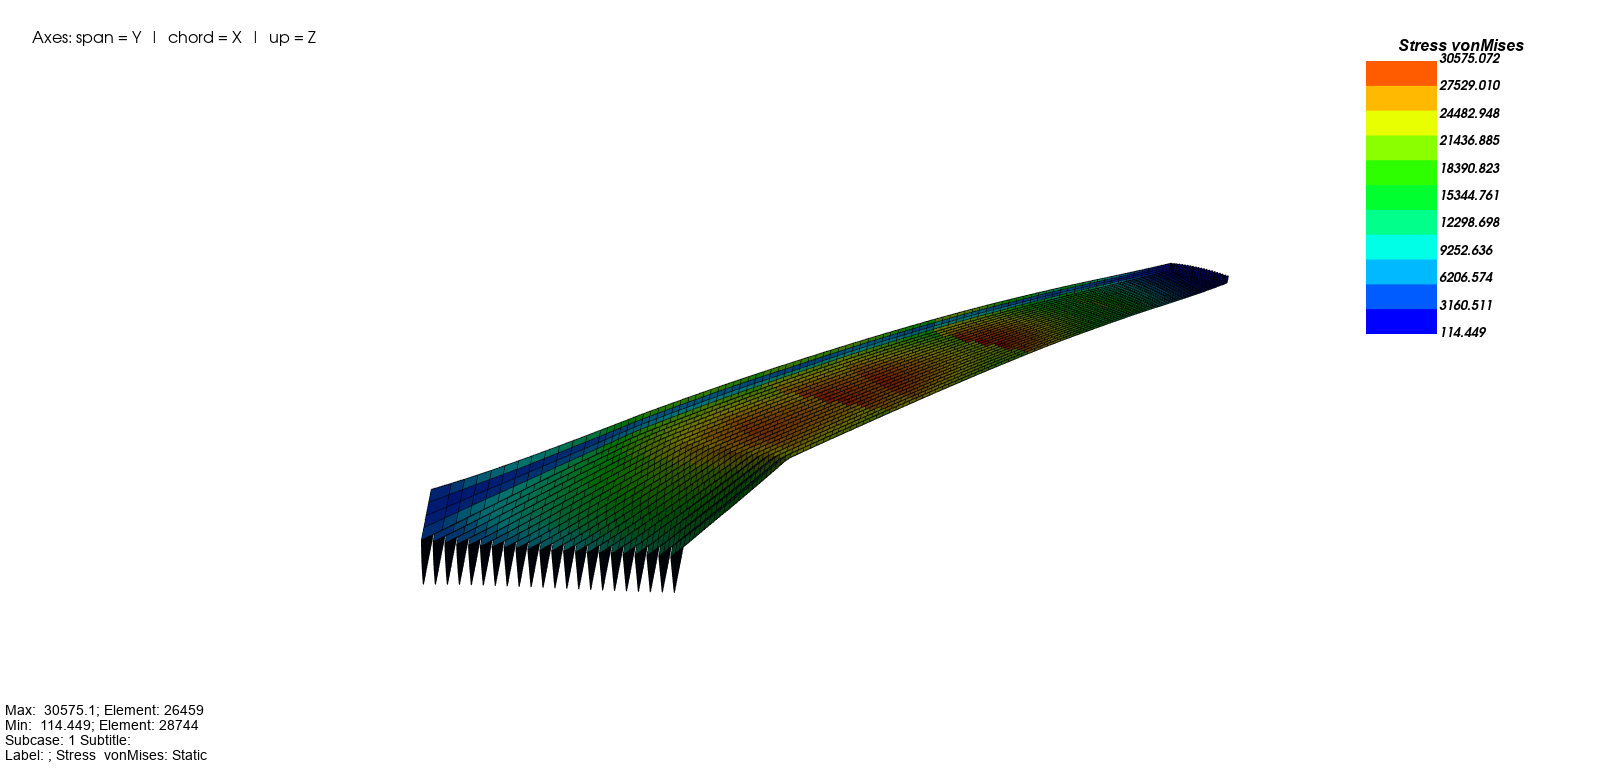
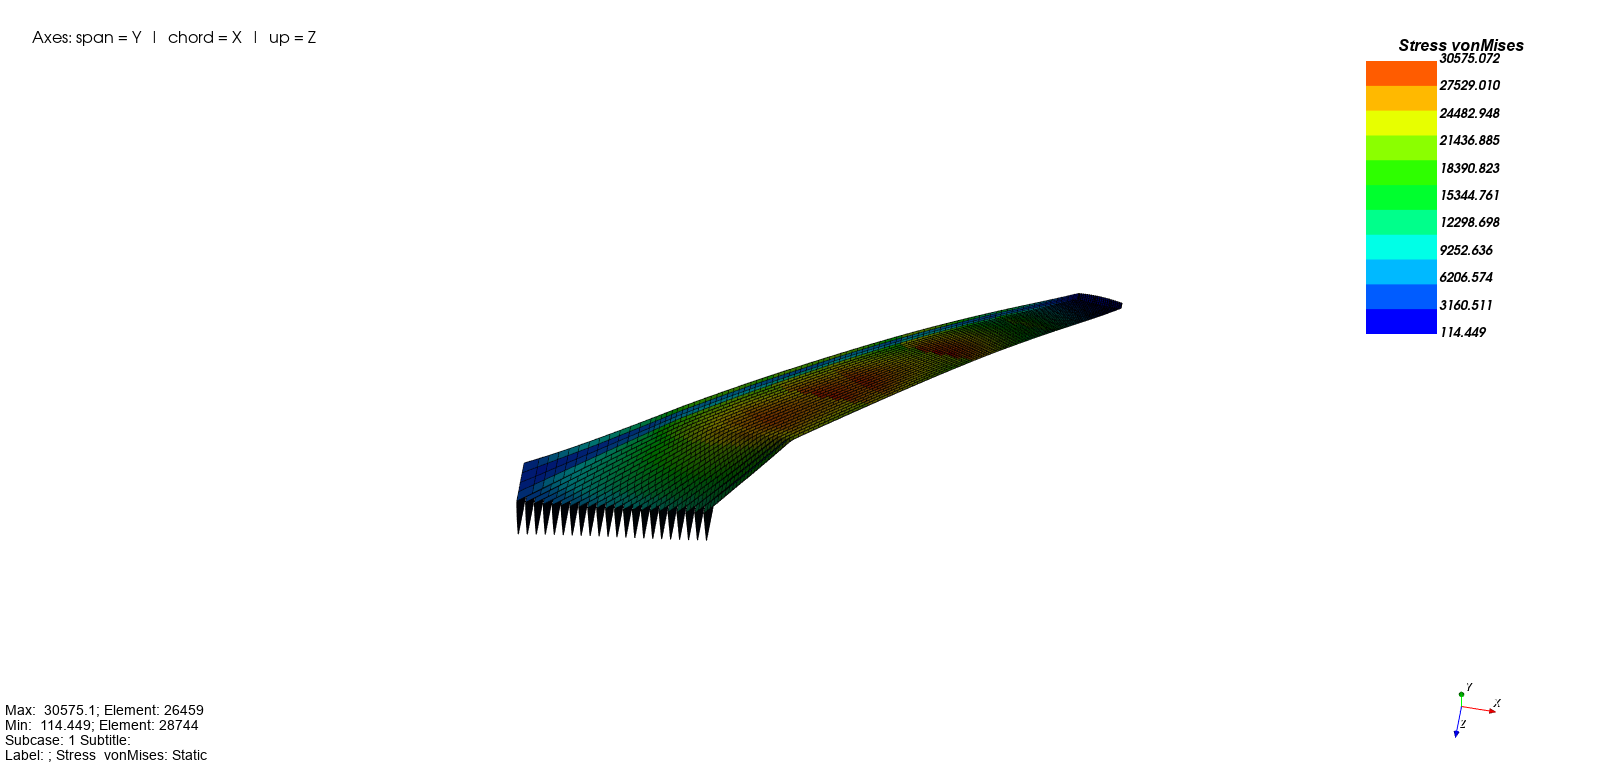
Show a real 3D axis triad on every render instead of a text-only caption (#35)
The previous fix (PR #34) tried to show pyNastranGUI's built-in corner
orientation-marker widget, concluded it wasn't capturable by the
screenshot pipeline, and fell back to a flat vtkTextActor caption
instead. That conclusion was wrong: reading pyNastranGUI's own
tool_actions.py shows on_take_screenshot's _screenshot_setup
unconditionally hides the widget right before every capture (and
restores it after), regardless of what a caller sets beforehand -- it's
not a rendering limitation, just pyNastran's own screenshot helper always
hiding it. Confirmed by bypassing self.on_take_screenshot and driving
vtkRenderLargeImage(self.rend)/vtkPNGWriter directly: the real,
labeled, colored X/Y/Z triad shows up fine.

_build_postscript now enables the triad and repositions/shrinks its
viewport into whichever corner the legend isn't using (bottom-right by
default, top-right when a wide fan pushes the legend to its own
bottom-right fallback), takes the screenshot manually instead of via
on_take_screenshot, and keeps the existing text caption alongside it --
the triad shows genuine X/Y/Z geometry, the caption is still needed to
say what those axes mean for this wing (span/chord/up, root side). Also
gave the caption a translucent background (vtkTextProperty's own
support) after a real render showed the wing's own root corner reaching
the top edge and cutting through the caption text in that camera view.

Regenerated all 10 blog render assets against the real NASA CRM wingbox
[…]

Changed region(s): [[0.2491, 0.3438, 0.7783, 0.7812], [0.9029, 0.9062, 0.934, 0.9375]]

diff --git a/scripts/mcp_server.py b/scripts/mcp_server.py
@@ -1451,17 +1451,22 @@ def _build_postscript(
     selects a von Mises stress result as the active fringe, takes a
     screenshot, and exits.
 
-    magnify=1 is passed to on_take_screenshot explicitly: pyNastranGUI's
-    default (magnify=5, i.e. vtkRenderLargeImage-based tiling) renders the
-    3D geometry at 5x resolution but NOT the 2D overlay actors (legend,
+    magnify=1 matches pyNastranGUI's own screenshot behavior: its default
+    (magnify=5, i.e. vtkRenderLargeImage-based tiling) renders the 3D
+    geometry at 5x resolution but NOT the 2D overlay actors (legend,
     orientation axes) at the same scale, making them look disproportionately
     huge relative to the model in the final image -- confirmed by comparing
     screenshots with and without an explicit magnify during development.
+    The screenshot itself is captured manually (see screenshot_block below)
+    rather than via self.on_take_screenshot -- that method forces magnify=1
+    through the same vtkRenderLargeImage(self.rend)/vtkPNGWriter path used
+    here, so nothing about the image itself changes.
 
     The background is set to flat white (pyNastranGUI's own
     set_background_color_to_white, normally used for GIF export) instead of
     its default dark gradient -- reads better in a blog post. The corner
-    orientation-axes triad is always hidden and the scalar-bar legend is
+    orientation-axes triad is shown (see axes_block below) and repositioned
+    into whichever corner the legend isn't using; the scalar-bar legend is
     always shrunk to a fixed, modest font size (rather than pyNastranGUI's
     default, which auto-scales the legend text to fill its bounding box --
     on an 11-label bar that makes 5-digit stress values render enormous, as
@@ -1525,23 +1530,45 @@ def _build_postscript(
     # create_coordinate_system) -- NOT the small screen-corner orientation
     # widget set_corner_axis_visiblity controls. It sits far from the
     # model's own geometry (the origin is rarely inside the model's bounding
-    # box), so it must be hidden BEFORE any ResetCamera() call, not after --
-    # confirmed by testing: hiding it afterward still let its off-to-the-side
-    # bounds skew the auto-fit, pushing the actual model to one edge of the
-    # frame instead of filling it. Two other approaches to show *some* axis
-    # indicator were tried and rejected: (1) leaving the corner triad widget
-    # itself visible (set_corner_axis_visiblity(True)) renders nothing in
-    # the final image -- confirmed by a real render with it enabled -- since
-    # on_take_screenshot's vtkRenderLargeImage captures self.rend directly,
-    # not the interactor-attached vtkOrientationMarkerWidget's own overlay
-    # renderer; (2) re-showing "Global XYZ" itself (even repositioned near
-    # the model, after ResetCamera) reintroduces the exact framing bug this
-    # code exists to avoid -- confirmed by a real render where doing so
-    # shrank the model to a small corner of the frame despite an unchanged
-    # zoom call. Both stay hidden; orientation_caption below is the actual
-    # fix (see _build_postscript's caption_block).
-    axes_block = """\
-self.set_corner_axis_visiblity(False)
+    # box), so it must stay hidden and BEFORE any ResetCamera() call, not
+    # after -- confirmed by testing: hiding it afterward still let its
+    # off-to-the-side bounds skew the auto-fit, pushing the actual model to
+    # one edge of the frame instead of filling it; showing it at all (even
+    # repositioned near the model, after ResetCamera) reintroduces the same
+    # bug, confirmed by a real render where doing so shrank the model to a
+    # small corner of the frame despite an unchanged zoom call.
+    #
+    # The small screen-corner triad (self.gui.corner_axis, a real
+    # vtkOrientationMarkerWidget/vtkAxesActor -- a genuine 3D axis system,
+    # not a 2D drawing of one) is a completely different object and does NOT
+    # have that framing problem: it renders into its own tiny corner
+    # viewport, independent of the main renderer's bounds. It was previously
+    # believed to be un-capturable -- a real render with
+    # set_corner_axis_visiblity(True) plus the normal self.on_take_screenshot
+    # call showed nothing in any corner. Reading pyNastran's own
+    # tool_actions.py explains why: on_take_screenshot's _screenshot_setup
+    # unconditionally does `axes_actor.SetVisibility(False)` right before
+    # capturing (then _screenshot_teardown sets it back True after) --
+    # regardless of what this postscript set beforehand. It's not that the
+    # capture mechanism can't see the widget; pyNastran's own code always
+    # hides it for screenshots. Confirmed by bypassing self.on_take_screenshot
+    # and driving the same vtkRenderLargeImage(self.rend)/vtkPNGWriter path
+    # by hand (see screenshot_block below): the corner triad shows up fine.
+    # It's repositioned into whichever corner the legend isn't using (see
+    # axis_viewport below) since the default bottom-left placement collides
+    # with pyNastranGUI's own Max/Min corner text.
+    if not want_stress_fringe or legend_y >= 0.3:
+        # No legend, or legend in its top-right placement -> bottom-right
+        # is free (bottom-left is reserved for pyNastran's Max/Min text).
+        axis_viewport = (0.83, 0.0, 0.99, 0.16)
+    else:
+        # Legend dropped to its bottom-right placement -> top-right is free
+        # instead (top-left is reserved for orientation_caption below).
+        axis_viewport = (0.83, 0.84, 0.99, 1.0)
+
+    axes_block = f"""\
+self.set_corner_axis_visiblity(True)
+self.gui.corner_axis.SetViewport({axis_viewport[0]!r}, {axis_viewport[1]!r}, {axis_viewport[2]!r}, {axis_viewport[3]!r})
 if 'Global XYZ' in self.geometry_actors:
     self.geometry_actors['Global XYZ'].VisibilityOff()
 """
@@ -1645,16 +1672,23 @@ with open({fringe_flag_repr}, "w") as _f:
     _f.write("1" if _fringe_set else "0")
 """
 
-    # Text, not a 3D widget or actor -- see axes_block's comment for why the
-    # two actor/widget-based approaches that were tried didn't work. A plain
-    # vtkTextActor is a 2D screen-space overlay in the same renderer
-    # (self.rend) real corner-text/legend actors already use successfully,
-    # so it shows up in on_take_screenshot's capture with no framing side
-    # effects (confirmed: same output size/framing with and without it).
+    # A plain text label, separate from the real 3D triad in axes_block
+    # above: the triad shows genuine X/Y/Z geometry but has no idea those
+    # letters mean "span"/"chord"/"up" for this particular wing, or which
+    # end is root -- that mapping is exactly what this caption spells out.
     # Top-left, since every render style this module produces (fixed
     # presets and both custom-camera modes) leaves it empty -- content runs
     # diagonally from lower-left to upper-right, the corner Max/Min block
-    # already owns bottom-left, and the legend owns top-right.
+    # already owns bottom-left, and the legend/triad own the right side.
+    # "Empty" is only true on average, though -- a real render against this
+    # case study's own root-at-left governing-element view showed the root
+    # end's own silhouette reaching all the way to the top edge, overlapping
+    # the caption text. Unlike the legend (which has a free opposite corner
+    # to fall back to via _legend_corner_y), the caption has nowhere else to
+    # go -- every other corner is already claimed. A translucent white
+    # background behind the text (vtkTextProperty's own background support)
+    # keeps it legible regardless of what geometry ends up behind it,
+    # without needing to predict/avoid the model's silhouette per camera.
     caption_block = ""
     if orientation_caption:
         caption_block = f"""
@@ -1663,9 +1697,29 @@ _orient_txt = _vtk_orient.vtkTextActor()
 _orient_txt.SetInput({orientation_caption!r})
 _orient_txt.GetTextProperty().SetFontSize(16)
 _orient_txt.GetTextProperty().SetColor(0.0, 0.0, 0.0)
+_orient_txt.GetTextProperty().SetBackgroundColor(1.0, 1.0, 1.0)
+_orient_txt.GetTextProperty().SetBackgroundOpacity(0.75)
 _orient_txt.GetPositionCoordinate().SetCoordinateSystemToNormalizedViewport()
 _orient_txt.GetPositionCoordinate().SetValue(0.02, 0.94)
 self.rend.AddActor2D(_orient_txt)
+"""
+
+    # Not self.on_take_screenshot -- see axes_block's comment: its
+    # _screenshot_setup/_screenshot_teardown unconditionally hide the corner
+    # axis triad for the duration of the capture, which would silently
+    # undo axes_block above regardless of ordering. This replicates its
+    # magnify=1 path by hand (vtkRenderLargeImage(self.rend) -> vtkPNGWriter,
+    # the same objects on_take_screenshot itself uses) minus that hide step.
+    screenshot_block = f"""\
+import vtk as _vtk_shot
+self.rend.GetRenderWindow().Render()
+_render_large = _vtk_shot.vtkRenderLargeImage()
+_render_large.SetInput(self.rend)
+_render_large.SetMagnification(1)
+_writer = _vtk_shot.vtkPNGWriter()
+_writer.SetInputConnection(_render_large.GetOutputPort())
+_writer.SetFileName({output_png_repr})
+_writer.Write()
 """
 
     return f"""\
@@ -1676,7 +1730,7 @@ self.zoom({zoom})
 {fringe_block}
 {legend_block}
 {caption_block}
-self.on_take_screenshot({output_png_repr}, magnify=1, show_msg=False)
+{screenshot_block}
 
 import sys
 sys.exit(0)

diff --git a/docs/_posts/2026-08-08-ai-driven-fea-nasa-crm-wingbox.md b/docs/_posts/2026-08-08-ai-driven-fea-nasa-crm-wingbox.md
@@ -129,20 +129,21 @@ were cross-checked directly against NASA's own
 
 MYSTRAN solves the patched "GVW" subcase cleanly.
 
-Every render from here on also carries a small caption stating which axis
-is span/chord/up, plus "root at left" wherever the camera guarantees it.
-Both are read off the geometry itself, not hardcoded per model: span is
-whichever axis has the largest bounding-box range, thickness the smallest,
-chord whatever's left; root is whichever end of the span axis has the
-bigger chord x thickness cross-section (a real wing tapers). The
-governing-element camera itself uses the same detection -- it picks
-whichever of {thickness, chord} the governing element's own outward normal
-aligns with more strongly as the dominant viewing axis (guaranteeing
-visibility) and rolls the camera so root always lands on the left. That
-replaces an earlier approach that aimed at one of 8 fixed isometric
-octants, weighting span equally with the other two axes -- which is
-exactly what let it occasionally rotate this long wing into an
-almost-vertical portrait view.
+Every render from here on carries a real 3D axis triad (bottom-right,
+top-right when the legend needs that corner instead) plus a small caption
+mapping it to the wing's own geometry -- which axis is span/chord/up, and
+"root at left" wherever the camera guarantees it. Both are read off the
+geometry itself, not hardcoded per model: span is whichever axis has the
+largest bounding-box range, thickness the smallest, chord whatever's left;
+root is whichever end of the span axis has the bigger chord x thickness
+cross-section (a real wing tapers). The governing-element camera itself
+uses the same detection -- it picks whichever of {thickness, chord} the
+governing element's own outward normal aligns with more strongly as the
+dominant viewing axis (guaranteeing visibility) and rolls the camera so
+root always lands on the left. That replaces an earlier approach that
+aimed at one of 8 fixed isometric octants, weighting span equally with the
+other two axes -- which is exactly what let it occasionally rotate this
+long wing into an almost-vertical portrait view.
 
 #### Tip displacement
 
